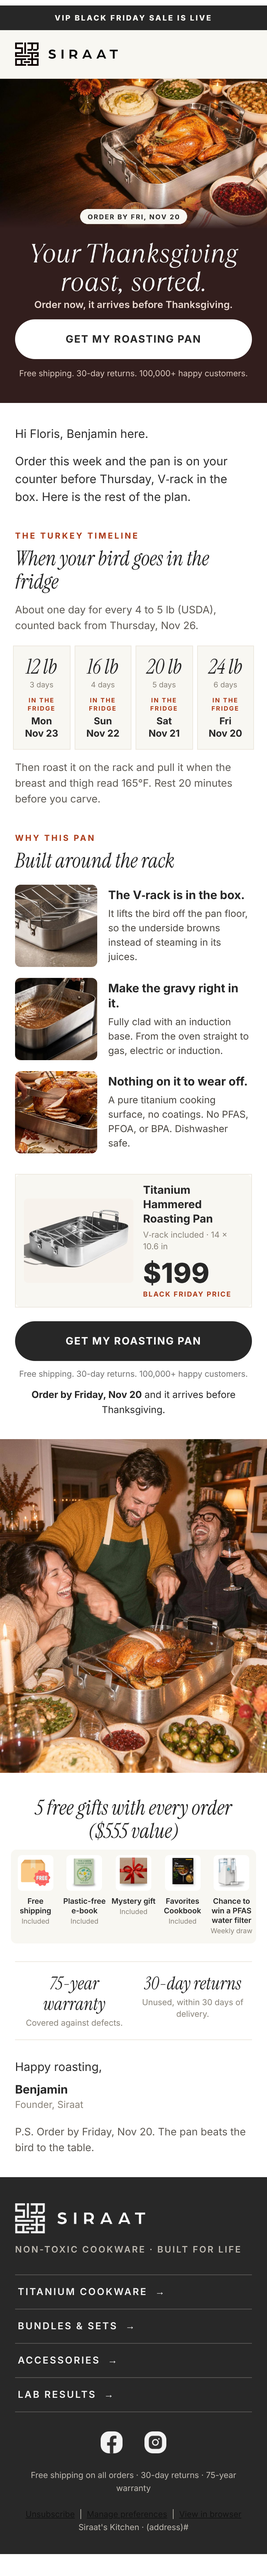
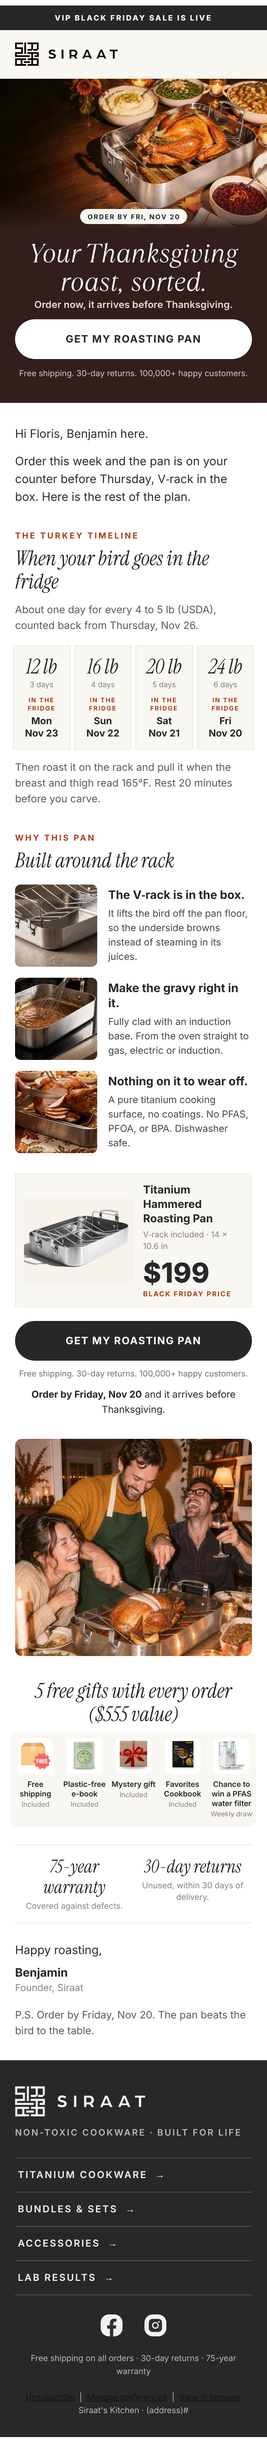
Thanksgiving Roast: sfeerfoto kleiner
Claude-Session: https://claude.ai/code/session_01HjCaDE95ohEXY6DPZTSH67

diff --git a/klaviyo/templates/v3/campaigns/thanksgiving-roast-1117/tg-us-preview.html b/klaviyo/templates/v3/campaigns/thanksgiving-roast-1117/tg-us-preview.html
@@ -282,7 +282,7 @@ a {
 <tr><td align="center" bgcolor="#FFFFFF" class="pad" style="background-color:#FFFFFF;padding:20px 40px 0 40px;"><table border="0" cellpadding="0" cellspacing="0" role="presentation" width="400" style="width:100%;max-width:400px;margin:0 auto;"><tr><td align="center" bgcolor="#272727" style="background-color:#272727;border-radius:30px;"><a href="https://siraatskitchen.com/products/titanium-hammered-roasting-pan?utm_source=klaviyo&amp;utm_medium=email&amp;utm_campaign=thanksgiving-roast-1117-us&amp;utm_content=cta2" style="display:block;padding:20px 18px;font-family:Inter,Arial,Helvetica,sans-serif;font-size:15px;line-height:18px;font-weight:700;letter-spacing:1.2px;color:#FFFFFF;text-decoration:none;text-transform:uppercase;">Get my roasting pan</a></td></tr></table></td></tr>
 <tr><td align="center" bgcolor="#FFFFFF" class="pad" style="background-color:#FFFFFF;padding:10px 40px 0 40px;text-align:center;"><div style="font-family:Inter,Arial,Helvetica,sans-serif;font-size:12px;line-height:18px;color:#727272;">Free shipping. 30-day returns. 100,000+ happy customers.</div></td></tr>
 <tr><td align="center" bgcolor="#FFFFFF" class="pad" style="background-color:#FFFFFF;padding:10px 40px 0 40px;text-align:center;"><div style="font-family:Inter,Arial,Helvetica,sans-serif;font-size:14px;line-height:22px;color:#272727;font-weight:400;"><b>Order by Friday, Nov 20</b> and it arrives before Thanksgiving.</div></td></tr>
-<tr><td align="center" bgcolor="#FFFFFF" style="background-color:#FFFFFF;padding:32px 0 0 0;"><a href="https://siraatskitchen.com/products/titanium-hammered-roasting-pan?utm_source=klaviyo&amp;utm_medium=email&amp;utm_campaign=thanksgiving-roast-1117-us&amp;utm_content=lifestyle" style="display:block;border:0;text-decoration:none;"><img src="https://cdn.klaviyomail.com/company/TdtTzz/images/66d9931e-418e-438d-b483-7f84c78d117d.jpeg" width="600" alt="Friends laughing while carving a turkey in the Siraat roasting pan at a Thanksgiving table" style="display:block;width:100%;max-width:600px;height:auto;border:0;border-radius:0px;"></a></td></tr>
+<tr><td align="center" bgcolor="#FFFFFF" style="background-color:#FFFFFF;padding:32px 40px 0 40px;" class="pad"><a href="https://siraatskitchen.com/products/titanium-hammered-roasting-pan?utm_source=klaviyo&amp;utm_medium=email&amp;utm_campaign=thanksgiving-roast-1117-us&amp;utm_content=lifestyle" style="display:block;border:0;text-decoration:none;"><img src="https://cdn.klaviyomail.com/company/TdtTzz/images/60d3879b-9450-4975-b9d2-6db2d5961a30.jpeg" width="520" alt="Friends laughing while carving a turkey in the Siraat roasting pan at a Thanksgiving table" style="display:block;width:100%;max-width:520px;height:auto;border:0;border-radius:10px;"></a></td></tr>
 <tr><td align="center" bgcolor="#FFFFFF" class="padx" style="background-color:#FFFFFF;padding:34px 24px 0 24px;"><div class="h1s" style="font-family:'Instrument Serif','Times New Roman',Times,serif;font-style:italic;font-weight:400;font-size:28px;line-height:32px;color:#272727;text-align:center;padding-bottom:10px;">5 free gifts with every order ($555&nbsp;value)</div><table role="presentation" width="100%" cellpadding="0" cellspacing="0" border="0" bgcolor="#F8F7F2" style="background-color:#F8F7F2;border-radius:8px;"><tr><td width="20%" valign="top" align="center" class="gm" style="padding:8px 3px 12px 3px;"><a href="https://siraatskitchen.com/products/titanium-hammered-roasting-pan?utm_source=klaviyo&amp;utm_medium=email&amp;utm_campaign=thanksgiving-roast-1117-us&amp;utm_content=gifts" style="display:block;text-decoration:none;"><img src="https://cdn.klaviyomail.com/company/TdtTzz/images/fc1878e8-1cc0-4699-8f62-1110afb1750e.jpeg" width="64" height="64" alt="Free shipping" style="display:block;width:64px;height:64px;border:0;border-radius:6px;margin:0 auto;object-fit:cover;"></a><div style="font-family:Inter,Arial,Helvetica,sans-serif;font-size:11px;line-height:14px;font-weight:600;color:#272727;padding-top:8px;text-align:center;">Free shipping</div><div style="font-family:Inter,Arial,Helvetica,sans-serif;font-size:10px;line-height:13px;color:#8A847A;padding-top:2px;text-align:center;">Included</div></td><td width="20%" valign="top" align="center" class="gm" style="padding:8px 3px 12px 3px;"><a href="https://siraatskitchen.com/products/titanium-hammered-roasting-pan?utm_source=klaviyo&amp;utm_medium=email&amp;utm_campaign=thanksgiving-roast-1117-us&amp;utm_content=gifts" style="display:block;text-decoration:none;"><img src="https://cdn.klaviyomail.com/company/TdtTzz/images/3fab7ff2-1993-48d2-8567-d9f3d0ce04dd.jpeg" width="64" height="64" alt="Plastic-free e-book" style="display:block;width:64px;height:64px;border:0;border-radius:6px;margin:0 auto;object-fit:cover;"></a><div style="font-family:Inter,Arial,Helvetica,sans-serif;font-size:11px;line-height:14px;font-weight:600;color:#272727;padding-top:8px;text-align:center;">Plastic-free e-book</div><div style="font-family:Inter,Arial,Helvetica,sans-serif;font-size:10px;line-height:13px;color:#8A847A;padding-top:2px;text-align:center;">Included</div></td><td width="20%" valign="top" align="center" class="gm" style="padding:8px 3px 12px 3px;"><a href="https://siraatskitchen.com/products/titanium-hammered-roasting-pan?utm_source=klaviyo&amp;utm_medium=email&amp;utm_campaign=thanksgiving-roast-1117-us&amp;utm_content=gifts" style="display:block;text-decoration:none;"><img src="https://cdn.klaviyomail.com/company/TdtTzz/images/c97cf7a9-cccf-4472-a592-d49747b6d6a7.jpeg" width="64" height="64" alt="Mystery gift" style="display:block;width:64px;height:64px;border:0;border-radius:6px;margin:0 auto;object-fit:cover;"></a><div style="font-family:Inter,Arial,Helvetica,sans-serif;font-size:11px;line-height:14px;font-weight:600;color:#272727;padding-top:8px;text-align:center;">Mystery gift</div><div style="font-family:Inter,Arial,Helvetica,sans-serif;font-size:10px;line-height:13px;color:#8A847A;padding-top:2px;text-align:center;">Included</div></td><td width="20%" valign="top" align="center" class="gm" style="padding:8px 3px 12px 3px;"><a href="https://siraatskitchen.com/products/titanium-hammered-roasting-pan?utm_source=klaviyo&amp;utm_medium=email&amp;utm_campaign=thanksgiving-roast-1117-us&amp;utm_content=gifts" style="display:block;text-decoration:none;"><img src="https://cdn.klaviyomail.com/company/TdtTzz/images/dabf0446-a5d7-49ae-87f8-672e5692bf5b.jpeg" width="64" height="64" alt="Favorites Cookbook" style="display:block;width:64px;height:64px;border:0;border-radius:6px;margin:0 auto;object-fit:cover;"></a><div style="font-family:Inter,Arial,Helvetica,sans-serif;font-size:11px;line-height:14px;font-weight:600;color:#272727;padding-top:8px;text-align:center;">Favorites Cookbook</div><div style="font-family:Inter,Arial,Helvetica,sans-serif;font-size:10px;line-height:13px;color:#8A847A;padding-top:2px;text-align:center;">Included</div></td><td width="20%" valign="top" align="center" class="gm" style="padding:8px 3px 12px 3px;"><a href="https://siraatskitchen.com/products/titanium-hammered-roasting-pan?utm_source=klaviyo&amp;utm_medium=email&amp;utm_campaign=thanksgiving-roast-1117-us&amp;utm_content=gifts" style="display:block;text-decoration:none;"><img src="https://cdn.klaviyomail.com/company/TdtTzz/images/a6aec8e7-f289-424e-ab60-689f1ae85c39.jpeg" width="64" height="64" alt="Chance to win a PFAS water filter" style="display:block;width:64px;height:64px;border:0;border-radius:6px;margin:0 auto;object-fit:cover;"></a><div style="font-family:Inter,Arial,Helvetica,sans-serif;font-size:11px;line-height:14px;font-weight:600;color:#272727;padding-top:8px;text-align:center;">Chance to win a PFAS water filter</div><div style="font-family:Inter,Arial,Helvetica,sans-serif;font-size:10px;line-height:13px;color:#8A847A;padding-top:2px;text-align:center;">Weekly draw</div></td></tr></table></td></tr>
 <tr><td bgcolor="#FFFFFF" class="pad" style="background-color:#FFFFFF;padding:26px 40px 0 40px;"><table role="presentation" width="100%" cellpadding="0" cellspacing="0" border="0" style="border-top:1px solid #ECE7DD;border-bottom:1px solid #ECE7DD;"><tr><td width="50%" valign="top" align="center" style="width:50%;padding:16px 8px;text-align:center;"><div style="font-family:'Instrument Serif','Times New Roman',Times,serif;font-style:italic;font-weight:400;font-size:26px;line-height:30px;color:#272727;">75-year warranty</div><div style="font-family:Inter,Arial,Helvetica,sans-serif;font-size:12px;line-height:17px;color:#8A847A;padding-top:4px;">Covered against defects.</div></td><td width="50%" valign="top" align="center" style="width:50%;padding:16px 8px;text-align:center;"><div style="font-family:'Instrument Serif','Times New Roman',Times,serif;font-style:italic;font-weight:400;font-size:26px;line-height:30px;color:#272727;">30-day returns</div><div style="font-family:Inter,Arial,Helvetica,sans-serif;font-size:12px;line-height:17px;color:#8A847A;padding-top:4px;">Unused, within 30 days of delivery.</div></td></tr></table></td></tr>
 <tr><td align="left" bgcolor="#FFFFFF" class="pad" style="background-color:#FFFFFF;padding:26px 40px 4px 40px;text-align:left;"><div style="font-family:Inter,Arial,Helvetica,sans-serif;font-size:17px;line-height:26px;color:#2E2E2E;font-weight:400;">Happy roasting,</div></td></tr>

diff --git a/klaviyo/templates/v3/campaigns/thanksgiving-roast-1117/tg-us.html b/klaviyo/templates/v3/campaigns/thanksgiving-roast-1117/tg-us.html
@@ -282,7 +282,7 @@ a {
 <tr><td align="center" bgcolor="#FFFFFF" class="pad" style="background-color:#FFFFFF;padding:20px 40px 0 40px;"><table border="0" cellpadding="0" cellspacing="0" role="presentation" width="400" style="width:100%;max-width:400px;margin:0 auto;"><tr><td align="center" bgcolor="#272727" style="background-color:#272727;border-radius:30px;"><a href="https://siraatskitchen.com/products/titanium-hammered-roasting-pan?utm_source=klaviyo&amp;utm_medium=email&amp;utm_campaign=thanksgiving-roast-1117-us&amp;utm_content=cta2" style="display:block;padding:20px 18px;font-family:Inter,Arial,Helvetica,sans-serif;font-size:15px;line-height:18px;font-weight:700;letter-spacing:1.2px;color:#FFFFFF;text-decoration:none;text-transform:uppercase;">Get my roasting pan</a></td></tr></table></td></tr>
 <tr><td align="center" bgcolor="#FFFFFF" class="pad" style="background-color:#FFFFFF;padding:10px 40px 0 40px;text-align:center;"><div style="font-family:Inter,Arial,Helvetica,sans-serif;font-size:12px;line-height:18px;color:#727272;">Free shipping. 30-day returns. 100,000+ happy customers.</div></td></tr>
 <tr><td align="center" bgcolor="#FFFFFF" class="pad" style="background-color:#FFFFFF;padding:10px 40px 0 40px;text-align:center;"><div style="font-family:Inter,Arial,Helvetica,sans-serif;font-size:14px;line-height:22px;color:#272727;font-weight:400;"><b>Order by Friday, Nov 20</b> and it arrives before Thanksgiving.</div></td></tr>
-<tr><td align="center" bgcolor="#FFFFFF" style="background-color:#FFFFFF;padding:32px 0 0 0;"><a href="https://siraatskitchen.com/products/titanium-hammered-roasting-pan?utm_source=klaviyo&amp;utm_medium=email&amp;utm_campaign=thanksgiving-roast-1117-us&amp;utm_content=lifestyle" style="display:block;border:0;text-decoration:none;"><img src="https://cdn.klaviyomail.com/company/TdtTzz/images/66d9931e-418e-438d-b483-7f84c78d117d.jpeg" width="600" alt="Friends laughing while carving a turkey in the Siraat roasting pan at a Thanksgiving table" style="display:block;width:100%;max-width:600px;height:auto;border:0;border-radius:0px;"></a></td></tr>
+<tr><td align="center" bgcolor="#FFFFFF" style="background-color:#FFFFFF;padding:32px 40px 0 40px;" class="pad"><a href="https://siraatskitchen.com/products/titanium-hammered-roasting-pan?utm_source=klaviyo&amp;utm_medium=email&amp;utm_campaign=thanksgiving-roast-1117-us&amp;utm_content=lifestyle" style="display:block;border:0;text-decoration:none;"><img src="https://cdn.klaviyomail.com/company/TdtTzz/images/60d3879b-9450-4975-b9d2-6db2d5961a30.jpeg" width="520" alt="Friends laughing while carving a turkey in the Siraat roasting pan at a Thanksgiving table" style="display:block;width:100%;max-width:520px;height:auto;border:0;border-radius:10px;"></a></td></tr>
 <tr><td align="center" bgcolor="#FFFFFF" class="padx" style="background-color:#FFFFFF;padding:34px 24px 0 24px;"><div class="h1s" style="font-family:'Instrument Serif','Times New Roman',Times,serif;font-style:italic;font-weight:400;font-size:28px;line-height:32px;color:#272727;text-align:center;padding-bottom:10px;">5 free gifts with every order ($555&nbsp;value)</div><table role="presentation" width="100%" cellpadding="0" cellspacing="0" border="0" bgcolor="#F8F7F2" style="background-color:#F8F7F2;border-radius:8px;"><tr><td width="20%" valign="top" align="center" class="gm" style="padding:8px 3px 12px 3px;"><a href="https://siraatskitchen.com/products/titanium-hammered-roasting-pan?utm_source=klaviyo&amp;utm_medium=email&amp;utm_campaign=thanksgiving-roast-1117-us&amp;utm_content=gifts" style="display:block;text-decoration:none;"><img src="https://cdn.klaviyomail.com/company/TdtTzz/images/fc1878e8-1cc0-4699-8f62-1110afb1750e.jpeg" width="64" height="64" alt="Free shipping" style="display:block;width:64px;height:64px;border:0;border-radius:6px;margin:0 auto;object-fit:cover;"></a><div style="font-family:Inter,Arial,Helvetica,sans-serif;font-size:11px;line-height:14px;font-weight:600;color:#272727;padding-top:8px;text-align:center;">Free shipping</div><div style="font-family:Inter,Arial,Helvetica,sans-serif;font-size:10px;line-height:13px;color:#8A847A;padding-top:2px;text-align:center;">Included</div></td><td width="20%" valign="top" align="center" class="gm" style="padding:8px 3px 12px 3px;"><a href="https://siraatskitchen.com/products/titanium-hammered-roasting-pan?utm_source=klaviyo&amp;utm_medium=email&amp;utm_campaign=thanksgiving-roast-1117-us&amp;utm_content=gifts" style="display:block;text-decoration:none;"><img src="https://cdn.klaviyomail.com/company/TdtTzz/images/3fab7ff2-1993-48d2-8567-d9f3d0ce04dd.jpeg" width="64" height="64" alt="Plastic-free e-book" style="display:block;width:64px;height:64px;border:0;border-radius:6px;margin:0 auto;object-fit:cover;"></a><div style="font-family:Inter,Arial,Helvetica,sans-serif;font-size:11px;line-height:14px;font-weight:600;color:#272727;padding-top:8px;text-align:center;">Plastic-free e-book</div><div style="font-family:Inter,Arial,Helvetica,sans-serif;font-size:10px;line-height:13px;color:#8A847A;padding-top:2px;text-align:center;">Included</div></td><td width="20%" valign="top" align="center" class="gm" style="padding:8px 3px 12px 3px;"><a href="https://siraatskitchen.com/products/titanium-hammered-roasting-pan?utm_source=klaviyo&amp;utm_medium=email&amp;utm_campaign=thanksgiving-roast-1117-us&amp;utm_content=gifts" style="display:block;text-decoration:none;"><img src="https://cdn.klaviyomail.com/company/TdtTzz/images/c97cf7a9-cccf-4472-a592-d49747b6d6a7.jpeg" width="64" height="64" alt="Mystery gift" style="display:block;width:64px;height:64px;border:0;border-radius:6px;margin:0 auto;object-fit:cover;"></a><div style="font-family:Inter,Arial,Helvetica,sans-serif;font-size:11px;line-height:14px;font-weight:600;color:#272727;padding-top:8px;text-align:center;">Mystery gift</div><div style="font-family:Inter,Arial,Helvetica,sans-serif;font-size:10px;line-height:13px;color:#8A847A;padding-top:2px;text-align:center;">Included</div></td><td width="20%" valign="top" align="center" class="gm" style="padding:8px 3px 12px 3px;"><a href="https://siraatskitchen.com/products/titanium-hammered-roasting-pan?utm_source=klaviyo&amp;utm_medium=email&amp;utm_campaign=thanksgiving-roast-1117-us&amp;utm_content=gifts" style="display:block;text-decoration:none;"><img src="https://cdn.klaviyomail.com/company/TdtTzz/images/dabf0446-a5d7-49ae-87f8-672e5692bf5b.jpeg" width="64" height="64" alt="Favorites Cookbook" style="display:block;width:64px;height:64px;border:0;border-radius:6px;margin:0 auto;object-fit:cover;"></a><div style="font-family:Inter,Arial,Helvetica,sans-serif;font-size:11px;line-height:14px;font-weight:600;color:#272727;padding-top:8px;text-align:center;">Favorites Cookbook</div><div style="font-family:Inter,Arial,Helvetica,sans-serif;font-size:10px;line-height:13px;color:#8A847A;padding-top:2px;text-align:center;">Included</div></td><td width="20%" valign="top" align="center" class="gm" style="padding:8px 3px 12px 3px;"><a href="https://siraatskitchen.com/products/titanium-hammered-roasting-pan?utm_source=klaviyo&amp;utm_medium=email&amp;utm_campaign=thanksgiving-roast-1117-us&amp;utm_content=gifts" style="display:block;text-decoration:none;"><img src="https://cdn.klaviyomail.com/company/TdtTzz/images/a6aec8e7-f289-424e-ab60-689f1ae85c39.jpeg" width="64" height="64" alt="Chance to win a PFAS water filter" style="display:block;width:64px;height:64px;border:0;border-radius:6px;margin:0 auto;object-fit:cover;"></a><div style="font-family:Inter,Arial,Helvetica,sans-serif;font-size:11px;line-height:14px;font-weight:600;color:#272727;padding-top:8px;text-align:center;">Chance to win a PFAS water filter</div><div style="font-family:Inter,Arial,Helvetica,sans-serif;font-size:10px;line-height:13px;color:#8A847A;padding-top:2px;text-align:center;">Weekly draw</div></td></tr></table></td></tr>
 <tr><td bgcolor="#FFFFFF" class="pad" style="background-color:#FFFFFF;padding:26px 40px 0 40px;"><table role="presentation" width="100%" cellpadding="0" cellspacing="0" border="0" style="border-top:1px solid #ECE7DD;border-bottom:1px solid #ECE7DD;"><tr><td width="50%" valign="top" align="center" style="width:50%;padding:16px 8px;text-align:center;"><div style="font-family:'Instrument Serif','Times New Roman',Times,serif;font-style:italic;font-weight:400;font-size:26px;line-height:30px;color:#272727;">75-year warranty</div><div style="font-family:Inter,Arial,Helvetica,sans-serif;font-size:12px;line-height:17px;color:#8A847A;padding-top:4px;">Covered against defects.</div></td><td width="50%" valign="top" align="center" style="width:50%;padding:16px 8px;text-align:center;"><div style="font-family:'Instrument Serif','Times New Roman',Times,serif;font-style:italic;font-weight:400;font-size:26px;line-height:30px;color:#272727;">30-day returns</div><div style="font-family:Inter,Arial,Helvetica,sans-serif;font-size:12px;line-height:17px;color:#8A847A;padding-top:4px;">Unused, within 30 days of delivery.</div></td></tr></table></td></tr>
 <tr><td align="left" bgcolor="#FFFFFF" class="pad" style="background-color:#FFFFFF;padding:26px 40px 4px 40px;text-align:left;"><div style="font-family:Inter,Arial,Helvetica,sans-serif;font-size:17px;line-height:26px;color:#2E2E2E;font-weight:400;">Happy roasting,</div></td></tr>

diff --git a/LOG.md b/LOG.md
@@ -536,3 +536,4 @@ Nieuwste bovenaan. Elke regel: datum, wat er gedaan is, wat het opleverde of wat
 - 2026-11-16 09:40 UTC: concurrenten-inbox dag 35 (venster vanaf 15 nov 07:39 UTC). 3 nieuwe mails (Our Place 3) in research/concurrenten/tijdlijn.csv; overzicht.md bijgewerkt (Dag 35, tellingen, timing, korting, onderwerpen, ideeen 57 tot 59). Opvallend: Our Place "Going Once…" (schaarste zonder product, alleen op-b), "Cookware Worth Keeping" (Titanium Pro voor het eerst met bedrag, Save up to $358, alleen op-c) en de middagherinnering 9 uur later ook naar op-w. Geen mail van HexClad, Made In en de rest.
 - 2026-11-16: Thanksgiving Roast US (rol: campagne): draft 01M7JGEYGP1FGC4P968R7QJMN8 'Thanksgiving Roast · US · 2026-11-17', template VVz7Ft (clone UNLwYu gepatcht, render zonder restanten). Titanium Hammered Roasting Pan $199 (Shopify compare-at $664, 1 variant, 200 op voorraad, CONTINUE). Aanbod: lopende BF-sale + 5 free gifts ($555 value), geen code (LUCKY15 verlopen, BF-code alleen in flows); links PDP met UTM thanksgiving-roast-1117-us. Inhoud: koelkastdata per 12/16/20/24 lb (USDA ~1 dag per 4-5 lb), rek, 165°F + 20 min rust, pan met V-rek, R240-review. Levering: Ecomflow US 7d gem. 10 d (6 tot 17), dus geen 'voor Thanksgiving'-belofte, eerlijk blok 'Will it arrive by Thursday?'. Audience VMjhb2, uitsluitingen als F13 plus nieuw segment U5FXZk 'Bought Roasting Pan (ever, incl. 34-Pcs)' (214), smart sending aan, niet ingepland. Testmail niet verstuurd (preview-send vraagt akkoord gebruiker). PNG 600/390 (DSF 2) zonder overloop, 0 kapotte beelden, 0 gedachtestreepjes. Bestanden klaviyo/templates/v3/campaigns/thanksgiving-roast-1117.
 - 2026-11-16: Thanksgiving Roast US v2 (feedback Floris): levering voor Thanksgiving is de kern (Floris: zeker), blok 'Will it arrive by Thursday?' weg, cutoff 'Order by Fri, Nov 20' in hero, onder knop 2 en P.S. Nieuwe opbouw: hero (Higgsfield gpt_image_2_6, flitsstijl, Shopify-productfoto als referentie, upscale; kop TT Ramillas ingebakken), witte knop op espresso, koelkasttegels 12/16/20/24 lb (3/4/5/6 dagen, ma 23, zo 22, za 21, vr 20 nov, USDA 1 dag per 4 tot 5 lb), 'Why this pan' met 3 Shopify-uitsneden (rek, jus, aansnijden), productkaart 2 kolommen $199 zonder doorhaling, lifestyle (Higgsfield 4:5, drie vrienden aan tafel), 5 gifts, 75-year warranty en 30-day returns, ondertekening Benjamin. Onderwerp 'Order now, it arrives before Thanksgiving', preview 'Order by Friday, Nov 20. V-rack included, $199, plus 5 free gifts.' Template UNLwYu gepatcht, campagne 01M7JGEYGP1FGC4P968R7QJMN8 blijft draft. Render 600: 3.992 px, 390: 3.759 px, geen overloop, 0 kapotte beelden, 0 gedachtestreepjes. Figma 301-89 bijgewerkt (slices en infokaart).
+- 2026-11-16: Thanksgiving Roast US: sfeerfoto (aansnijden) kleiner op verzoek Floris: bijgesneden naar 1000x917, 520 px breed met marge en afgeronde hoeken. Template UNLwYu bijgewerkt (campagne 01M7JGEYGP1FGC4P968R7QJMN8 blijft draft). Hoogte nu desktop 3.719 px, mobiel 3.589 px.
